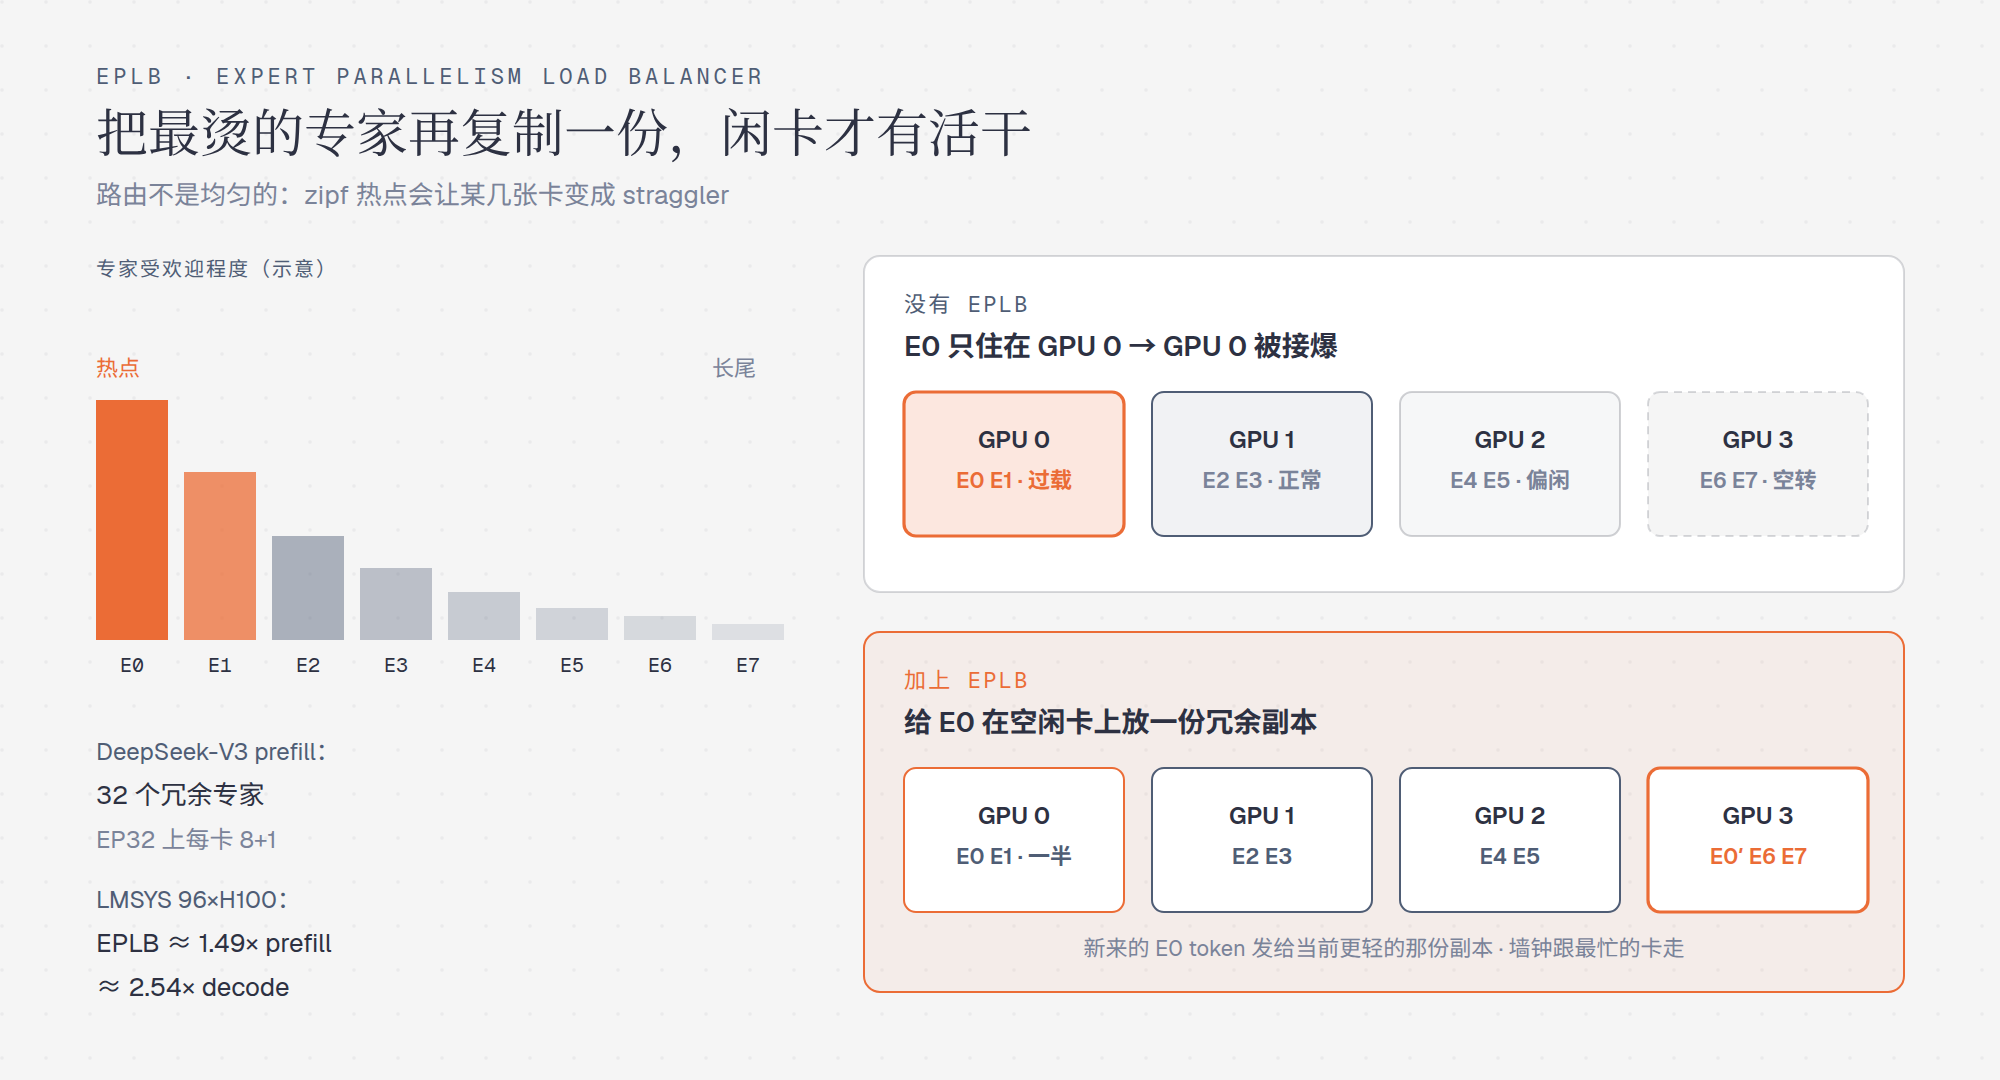
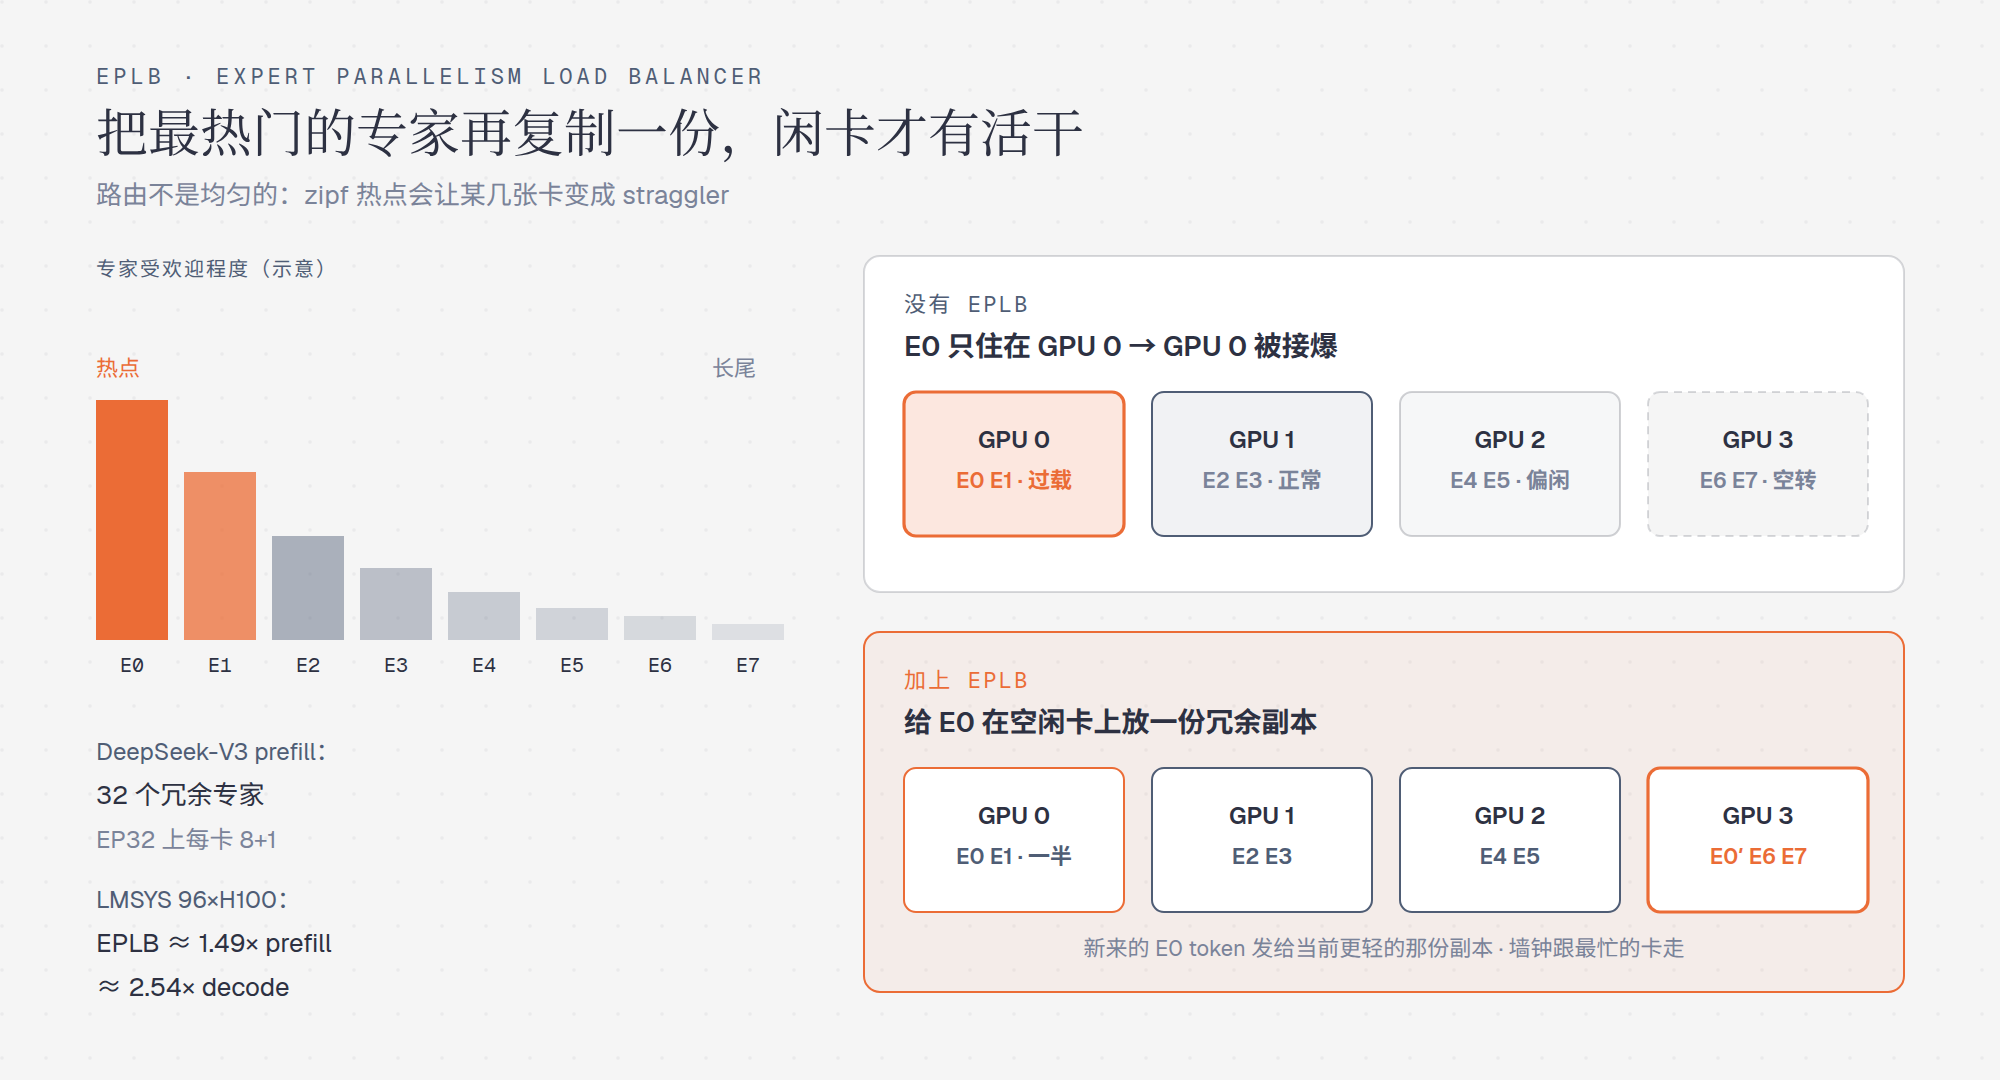
第6篇: 最烫改为最热门，并去掉实验部分
正文、EPLB / 六刀结构图统一用「最热门」；删掉四组无 GPU 仿真及文内交叉引用。

Changed region(s): [[0.093, 0.0917, 0.527, 0.1528]]

diff --git a/diagrams/parallelism-moe/diagram-six-slices.html b/diagrams/parallelism-moe/diagram-six-slices.html
@@ -185,7 +185,7 @@
       <text x="874" y="754" fill="#2d3142" font-size="11" font-family="'Geist Mono','Noto Sans CJK SC',monospace" text-anchor="middle">GPU3 E24–…</text>
       <text x="814" y="854" fill="#4f5d75" font-size="11" font-family="'Geist','Noto Sans CJK SC',sans-serif" text-anchor="middle">一层里两套并行叠在一起</text>
       <text x="814" y="872" fill="#eb6c36" font-size="11" font-family="'Geist Mono','Noto Sans CJK SC',monospace" text-anchor="middle">dispatch / combine all-to-all</text>
-      <text x="814" y="890" fill="#7a8399" font-size="11" font-family="'Geist','Noto Sans CJK SC',sans-serif" text-anchor="middle">墙钟看最烫的那个专家</text>
+      <text x="814" y="890" fill="#7a8399" font-size="11" font-family="'Geist','Noto Sans CJK SC',sans-serif" text-anchor="middle">墙钟看最热门的那个专家</text>
 
       <text x="500" y="956" fill="#7a8399" font-size="12" font-family="'Geist','Noto Sans CJK SC',sans-serif" text-anchor="middle">对照口诀：TP 竖切矩阵 · PP 横切层栈 · DP 复制整网 · SP 切 Norm · CP 切注意力 · EP 切专家</text>
     </svg>

diff --git a/diagrams/parallelism-moe/diagram-eplb.html b/diagrams/parallelism-moe/diagram-eplb.html
@@ -20,7 +20,7 @@
       <rect width="100%" height="100%" fill="url(#dots)" opacity="0.55"/>
 
       <text x="48" y="42" fill="#4f5d75" font-size="11" font-family="'Geist Mono','Noto Sans CJK SC',monospace" letter-spacing="0.18em">EPLB · EXPERT PARALLELISM LOAD BALANCER</text>
-      <text x="48" y="76" fill="#2d3142" font-size="26" font-family="'Instrument Serif','Noto Serif CJK SC',serif">把最烫的专家再复制一份，闲卡才有活干</text>
+      <text x="48" y="76" fill="#2d3142" font-size="26" font-family="'Instrument Serif','Noto Serif CJK SC',serif">把最热门的专家再复制一份，闲卡才有活干</text>
       <text x="48" y="102" fill="#7a8399" font-size="13" font-family="'Geist','Noto Sans CJK SC',sans-serif">路由不是均匀的：zipf 热点会让某几张卡变成 straggler</text>
 
       <!-- popularity -->

diff --git a/docs/series-roadmap.md b/docs/series-roadmap.md
@@ -12,23 +12,23 @@
 
 ## 总览
 
-| #   | 篇目                                       | 覆盖的框架模块                                                | 贯穿类比                | 无 GPU 实验                                   | 状态 |
-| --- | ------------------------------------------ | ------------------------------------------------------------ | ----------------------- | --------------------------------------------- | ---- |
-| 1   | 从 Transformer 出发来看推理系统            | 模块全景 / Engine 入口 / API Server                          | —                       | 前向计算与 KV 增长可视化                      | ✅   |
-| 2   | KV Cache 详解：PagedAttention 到 Prefix Caching | KV Cache Manager / BlockPool / RadixAttention           | 图书馆借还书            | 分页/前缀命中率与碎片仿真                      | ✅   |
-| 3   | 推理调度（单机篇）：Continuous Batching 到缓存感知调度 | Scheduler（单机 step 循环）                          | OS 的 CPU 调度          | 排队/批处理吞吐与时延仿真                      | ✅   |
-| 4   | PD 分离：把 Prefill 和 Decode 拆到不同 GPU 池 | KVConnector / KV transfer                                  | 工厂车间的专业化分工    | P/D 配比与传输开销仿真                         | ✅   |
-| 5   | 推理调度（分布式篇）：缓存感知路由到全局准入控制 | Router / 准入控制 / 扩缩容                                | 打车平台派单中心        | 缓存感知路由 / 亲和 vs 均衡 / 早拒绝仿真       | ✅   |
-| 6   | 大模型的各种并行：从张量切分到上下文并行     | Model Executor / TP·SP·PP·DP·CP·EP / EPLB·DeepEP             | 大厨团队的分工          | TP 通信、PP 气泡、EPLB 不均、CP vs TP 载荷     | 🚧   |
-| 7   | 推理模型（long-CoT）服务                    | 调度 + KV 生命周期在长思维链下的新负载                       | 考场里的大考            | 长 CoT 下 KV 占用与 straggler 仿真            | ⬜   |
-| 8   | GPU 架构与现有 GPU（含 Attention Kernel）   | 硬件 / Roofline / Attention Kernels（FlashInfer/FA3）        | GPU = 一座工厂          | Roofline 与 kernel 访存/算力仿真              | ⬜   |
-| 9   | 推测解码（Speculative Decoding）            | Speculative proposer（EAGLE / MTP / n-gram）                 | 抢答 + 复核             | 接受率/加速比与高并发失效仿真                  | ⬜   |
-| 10  | 采样与结构化解码                           | Sampler + StructuredOutputManager / XGrammar                | 掷骰子 + 填表格模板     | 采样分布与语法掩码开销仿真                     | ⬜   |
-| 11  | 量化与低精度                               | AWQ / GPTQ / FP8 / NVFP4 + KV/激活量化                       | 压缩打包行李            | 精度-显存-吞吐权衡仿真                         | ⬜   |
-| 12  | 多模态推理                                 | Multimodal 输入处理 / VLM / mm cache                         | 多国语翻译入关          | 多模态 token 预算与预处理开销仿真             | ⬜   |
-| 13  | 多 LoRA / 适配器多租户                     | LoRA（S-LoRA / Punica）/ 适配器内存池                        | 同底盘换外壳            | 多适配器切换与内存池命中仿真                   | ⬜   |
-| 14  | 训练-推理一体化 / RL rollout               | Weight loading + 权重热更新 API                             | 边训边比赛换装备        | 权重热更新时延与 rollout 吞吐仿真            | ⬜   |
-| 15  | 可观测、benchmark 与 SLO 方法论            | Metrics / benchmark_serving                                 | 汽车仪表盘              | SLO 达成率与压测曲线复现                       | ⬜   |
+| #   | 篇目                                                   | 覆盖的框架模块                                        | 贯穿类比             | 无 GPU 实验                              | 状态 |
+| --- | ------------------------------------------------------ | ----------------------------------------------------- | -------------------- | ---------------------------------------- | ---- |
+| 1   | 从 Transformer 出发来看推理系统                        | 模块全景 / Engine 入口 / API Server                   | —                    | 前向计算与 KV 增长可视化                 | ✅   |
+| 2   | KV Cache 详解：PagedAttention 到 Prefix Caching        | KV Cache Manager / BlockPool / RadixAttention         | 图书馆借还书         | 分页/前缀命中率与碎片仿真                | ✅   |
+| 3   | 推理调度（单机篇）：Continuous Batching 到缓存感知调度 | Scheduler（单机 step 循环）                           | OS 的 CPU 调度       | 排队/批处理吞吐与时延仿真                | ✅   |
+| 4   | PD 分离：把 Prefill 和 Decode 拆到不同 GPU 池          | KVConnector / KV transfer                             | 工厂车间的专业化分工 | P/D 配比与传输开销仿真                   | ✅   |
+| 5   | 推理调度（分布式篇）：缓存感知路由到全局准入控制       | Router / 准入控制 / 扩缩容                            | 打车平台派单中心     | 缓存感知路由 / 亲和 vs 均衡 / 早拒绝仿真 | ✅   |
+| 6   | 大模型的各种并行：从张量切分到上下文并行               | Model Executor / TP·SP·PP·DP·CP·EP / EPLB·DeepEP      | 大厨团队的分工       | —                                        | 🚧   |
+| 7   | 推理模型（long-CoT）服务                               | 调度 + KV 生命周期在长思维链下的新负载                | 考场里的大考         | 长 CoT 下 KV 占用与 straggler 仿真       | ⬜   |
+| 8   | GPU 架构与现有 GPU（含 Attention Kernel）              | 硬件 / Roofline / Attention Kernels（FlashInfer/FA3） | GPU = 一座工厂       | Roofline 与 kernel 访存/算力仿真         | ⬜   |
+| 9   | 推测解码（Speculative Decoding）                       | Speculative proposer（EAGLE / MTP / n-gram）          | 抢答 + 复核          | 接受率/加速比与高并发失效仿真            | ⬜   |
+| 10  | 采样与结构化解码                                       | Sampler + StructuredOutputManager / XGrammar          | 掷骰子 + 填表格模板  | 采样分布与语法掩码开销仿真               | ⬜   |
+| 11  | 量化与低精度                                           | AWQ / GPTQ / FP8 / NVFP4 + KV/激活量化                | 压缩打包行李         | 精度-显存-吞吐权衡仿真                   | ⬜   |
+| 12  | 多模态推理                                             | Multimodal 输入处理 / VLM / mm cache                  | 多国语翻译入关       | 多模态 token 预算与预处理开销仿真        | ⬜   |
+| 13  | 多 LoRA / 适配器多租户                                 | LoRA（S-LoRA / Punica）/ 适配器内存池                 | 同底盘换外壳         | 多适配器切换与内存池命中仿真             | ⬜   |
+| 14  | 训练-推理一体化 / RL rollout                           | Weight loading + 权重热更新 API                       | 边训边比赛换装备     | 权重热更新时延与 rollout 吞吐仿真        | ⬜   |
+| 15  | 可观测、benchmark 与 SLO 方法论                        | Metrics / benchmark_serving                           | 汽车仪表盘           | SLO 达成率与压测曲线复现                 | ⬜   |
 
 ## 结构说明
 
@@ -43,24 +43,24 @@
 
 以 vLLM V1 与 SGLang 的实际模块划分为参照，核对系列覆盖情况；标注每个模块由哪一篇覆盖，`GAP` 表示原计划遗漏、后补入 9–15 的模块。
 
-| 框架模块（vLLM V1 / SGLang）                      | 覆盖篇目      | 备注                                   |
-| ------------------------------------------------- | ------------- | -------------------------------------- |
-| API Server（tokenize / mm load / streaming）      | 1             | Engine 入口全景                        |
-| Engine Core（busy loop / step）                   | 1、3          | 单机 step 循环在第 3 篇               |
-| Scheduler                                         | 3、5          | 单机 / 分布式两篇                     |
-| KVCacheManager / BlockPool / RadixCache           | 2             | —                                      |
-| KVConnector / KV transfer                         | 4             | PD 分离                                |
-| Router / 准入 / 扩缩容                            | 5             | 分布式篇                              |
-| Model Executor（TP·SP·PP·DP·CP·EP）                | 6             | 六刀并行 + MoE；CP 不再留给第 8 篇    |
-| Attention Kernels（FlashInfer / FA3）             | 8             | GAP → 并入 GPU 架构篇                 |
-| Speculative proposer（EAGLE / MTP / n-gram）      | 9             | GAP                                    |
-| Sampler                                           | 10            | GAP                                    |
-| StructuredOutputManager / XGrammar                | 10            | GAP                                    |
-| Quantization（AWQ/GPTQ/FP8/NVFP4）                | 11            | GAP                                    |
-| Multimodal 输入 / mm_receiver_cache               | 12            | GAP                                    |
-| LoRA（S-LoRA / Punica）                           | 13            | GAP                                    |
-| Weight loading / 权重热更新 API                   | 14            | GAP（RL rollout 权重同步）           |
-| Metrics / benchmark_serving                       | 15            | GAP（横切方法论）                     |
+| 框架模块（vLLM V1 / SGLang）                 | 覆盖篇目 | 备注                               |
+| -------------------------------------------- | -------- | ---------------------------------- |
+| API Server（tokenize / mm load / streaming） | 1        | Engine 入口全景                    |
+| Engine Core（busy loop / step）              | 1、3     | 单机 step 循环在第 3 篇            |
+| Scheduler                                    | 3、5     | 单机 / 分布式两篇                  |
+| KVCacheManager / BlockPool / RadixCache      | 2        | —                                  |
+| KVConnector / KV transfer                    | 4        | PD 分离                            |
+| Router / 准入 / 扩缩容                       | 5        | 分布式篇                           |
+| Model Executor（TP·SP·PP·DP·CP·EP）          | 6        | 六刀并行 + MoE；CP 不再留给第 8 篇 |
+| Attention Kernels（FlashInfer / FA3）        | 8        | GAP → 并入 GPU 架构篇              |
+| Speculative proposer（EAGLE / MTP / n-gram） | 9        | GAP                                |
+| Sampler                                      | 10       | GAP                                |
+| StructuredOutputManager / XGrammar           | 10       | GAP                                |
+| Quantization（AWQ/GPTQ/FP8/NVFP4）           | 11       | GAP                                |
+| Multimodal 输入 / mm_receiver_cache          | 12       | GAP                                |
+| LoRA（S-LoRA / Punica）                      | 13       | GAP                                |
+| Weight loading / 权重热更新 API              | 14       | GAP（RL rollout 权重同步）         |
+| Metrics / benchmark_serving                  | 15       | GAP（横切方法论）                  |
 
 ## 写作约定（每篇通用）
 
